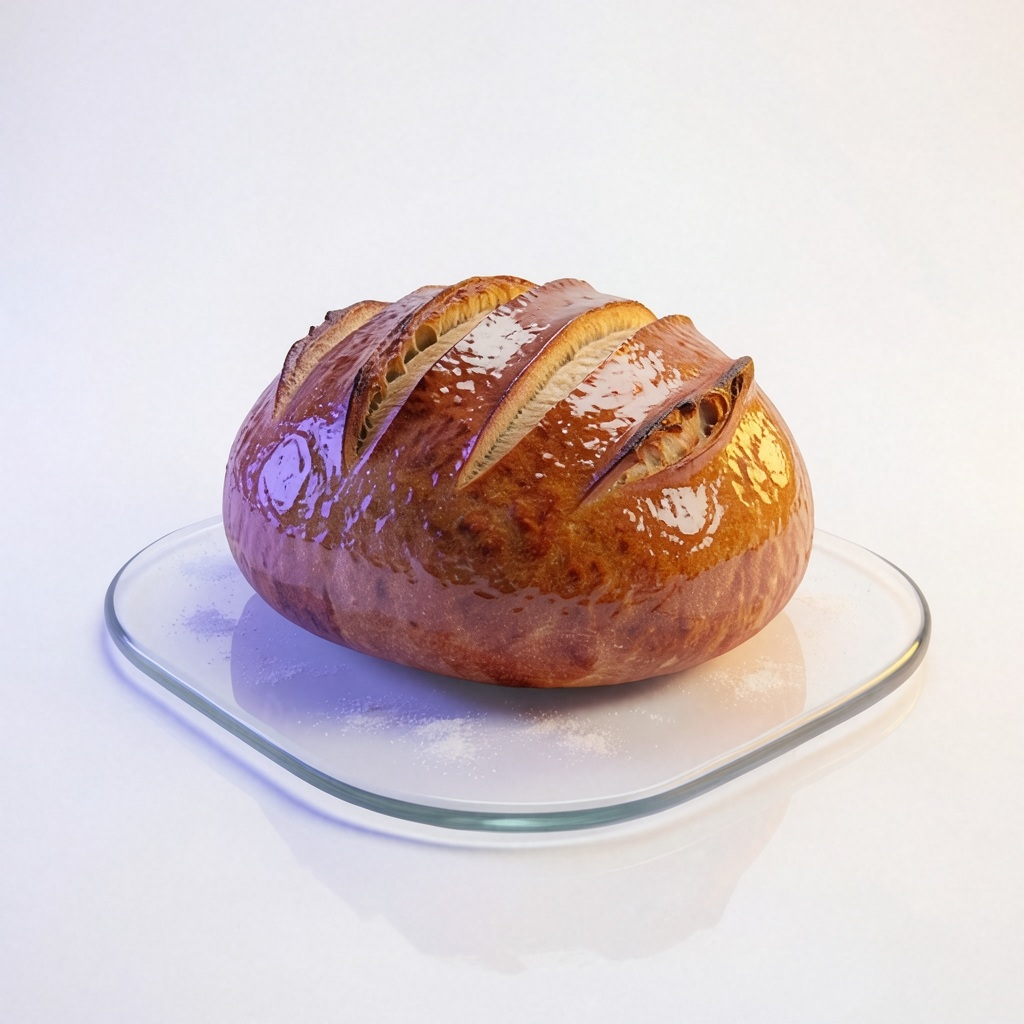
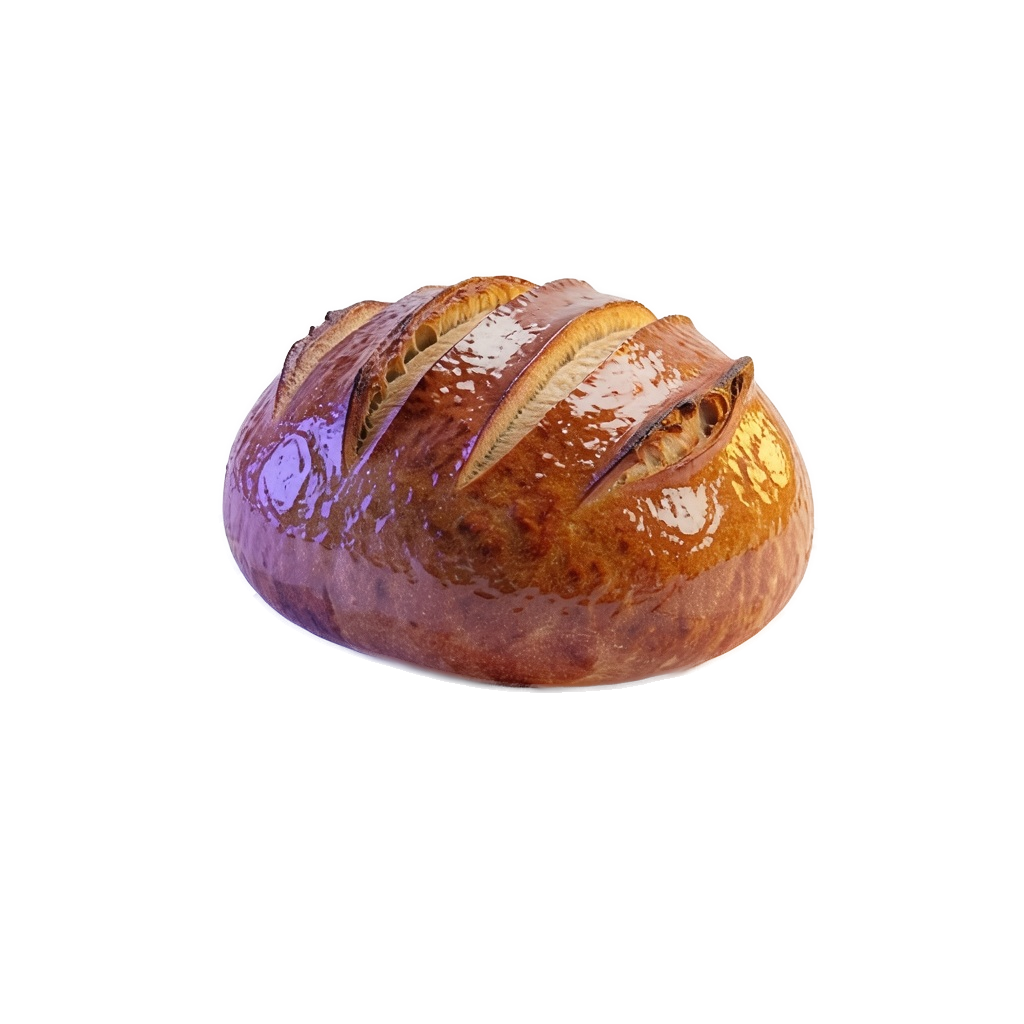
Breadledger: hero loaf cut out to a transparent PNG so no picture box shows on the hero (new checker rule image-box-edge)

diff --git a/public/index.html b/public/index.html
@@ -339,7 +339,7 @@
     var withShots = (SUBMITTED || []).filter(function (x) { return x.shots && x.shots.length; }).slice(0, 8);
     var heroOff = false; try { heroOff = localStorage.getItem('bl_hero_off') === '1'; } catch (e) {}
     var h = '';
-    if (!heroOff) h += '<section class="hero" aria-label="Welcome"><button class="btn ghost icon sm dismiss" type="button" data-herooff aria-label="Hide this welcome">' + icon('x') + '</button><div><span class="kicker">' + icon('zap') + 'Breadledger</span><h2>Every bug you ever fixed, working for the next project.</h2><p>Agents check a project against the whole catalogue, prove what they covered, fix what they can and write the story. Nothing is ever deleted.</p><div class="pills"><span class="badge ok">' + icon('check') + 'Append-only</span><span class="badge accent">' + icon('bug') + B.fmtN(BUGS.length) + ' fixes</span><span class="badge">' + icon('grid') + appOrder.length + ' apps</span><span class="badge outline">' + icon('eye') + '0 checker faults on every page</span></div><div class="cta"><button class="btn primary" type="button" data-goview="bugs">' + icon('ledger') + 'Open the bugs</button><a class="btn" href="/live">' + icon('live') + 'Watch agents live</a><a class="btn ghost" href="/AGENT.md">' + icon('file') + 'Agent protocol</a></div></div><div class="art"><img src="/art/hero-loaf.png" alt="" width="1024" height="1024" data-framed></div></section>';
+    if (!heroOff) h += '<section class="hero" aria-label="Welcome"><button class="btn ghost icon sm dismiss" type="button" data-herooff aria-label="Hide this welcome">' + icon('x') + '</button><div><span class="kicker">' + icon('zap') + 'Breadledger</span><h2>Every bug you ever fixed, working for the next project.</h2><p>Agents check a project against the whole catalogue, prove what they covered, fix what they can and write the story. Nothing is ever deleted.</p><div class="pills"><span class="badge ok">' + icon('check') + 'Append-only</span><span class="badge accent">' + icon('bug') + B.fmtN(BUGS.length) + ' fixes</span><span class="badge">' + icon('grid') + appOrder.length + ' apps</span><span class="badge outline">' + icon('eye') + '0 checker faults on every page</span></div><div class="cta"><button class="btn primary" type="button" data-goview="bugs">' + icon('ledger') + 'Open the bugs</button><a class="btn" href="/live">' + icon('live') + 'Watch agents live</a><a class="btn ghost" href="/AGENT.md">' + icon('file') + 'Agent protocol</a></div></div><div class="art"><img src="/art/hero-loaf.png" alt="" width="1024" height="1024"></div></section>';
     var wallApps = appOrder.slice(0, 40), wall = wallApps.map(function (a) { return '<a class="tile" href="/#view=bugs&app=' + encodeURIComponent(a) + '">' + B.avatar(a, 'sm') + esc(a) + '</a>'; }).join('');
     h += '<div class="wall" aria-label="Apps whose bugs live here"><div class="track">' + wall + wall + '</div></div>';
     h += '<div class="ov-grid">' +
